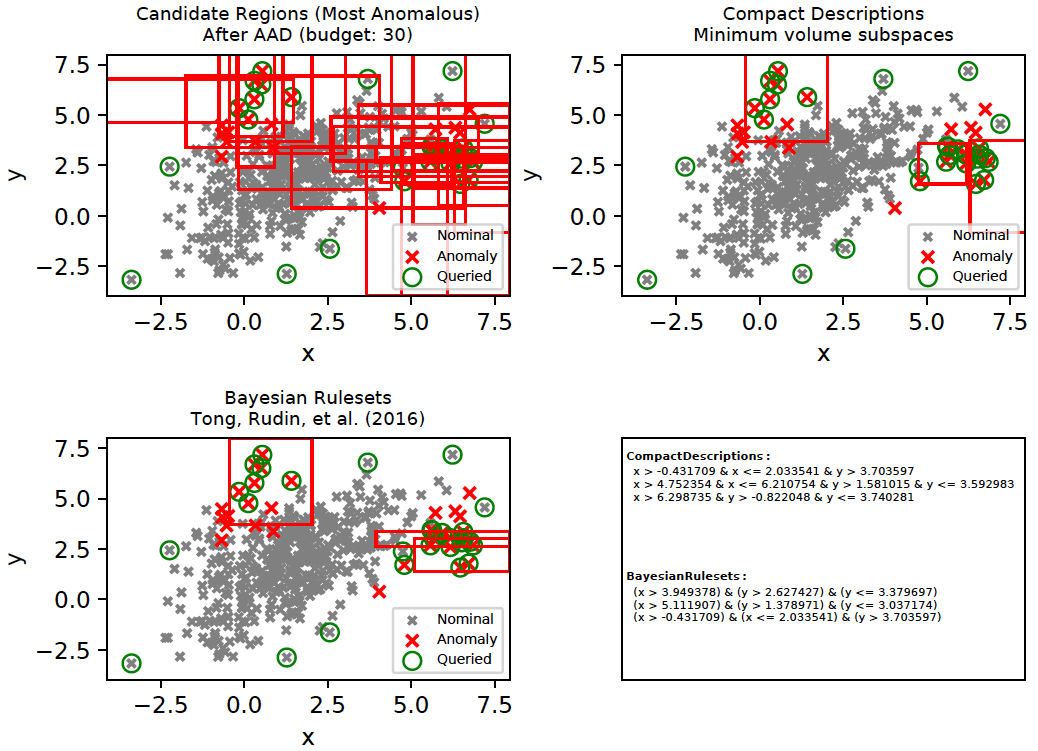
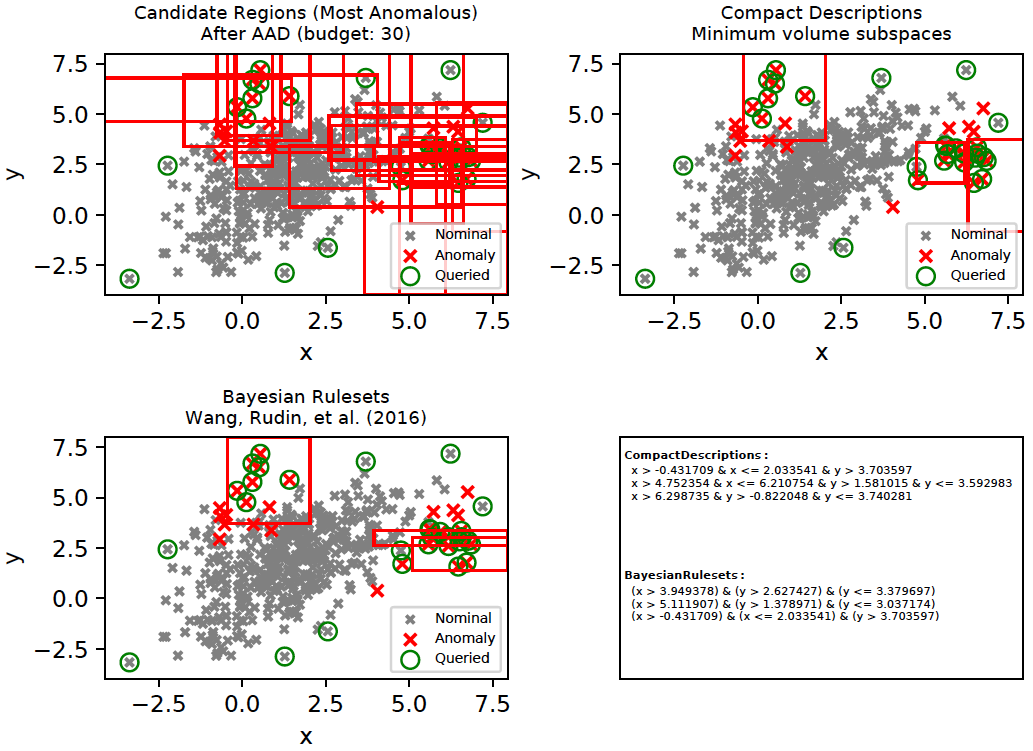
integrated Bayesian Rulesets by Wang, Rudin, et al. with AAD

diff --git a/python/aad/test_rulesets.py b/python/aad/test_rulesets.py
@@ -234,7 +234,7 @@ def test_aad_rules(opts):
         plot_selected_regions(x, y, regions=compact_ranges, query_instances=queried,
                               title="Compact Descriptions\nMinimum volume subspaces", dp=dp)
         plot_selected_regions(x, y, regions=bayesian_ruleset_ranges, query_instances=queried,
-                              title="Bayesian Rulesets\nTong, Rudin, et al. (2016)", dp=dp)
+                              title="Bayesian Rulesets\nWang, Rudin, et al. (2016)", dp=dp)
         # plot the inferred rules
         plot_rule_annotations(str_compact_rules, str_bayesian_rules, dp)
         dp.close()
